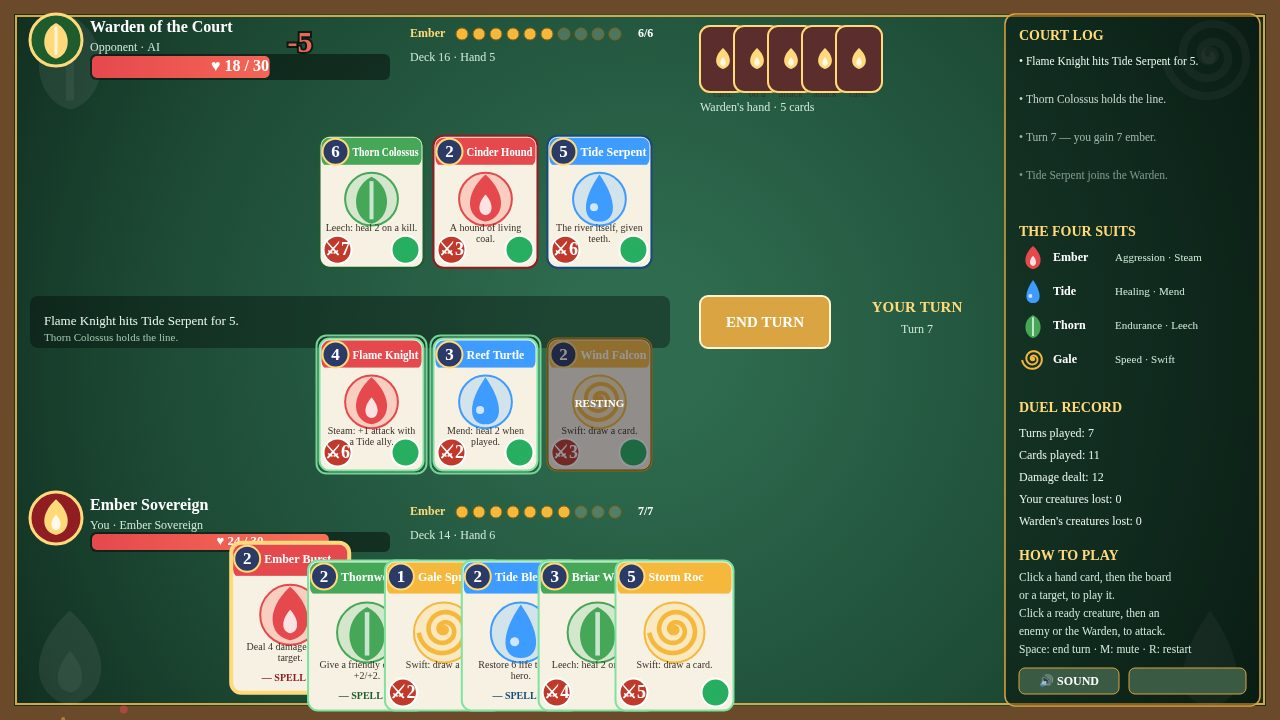
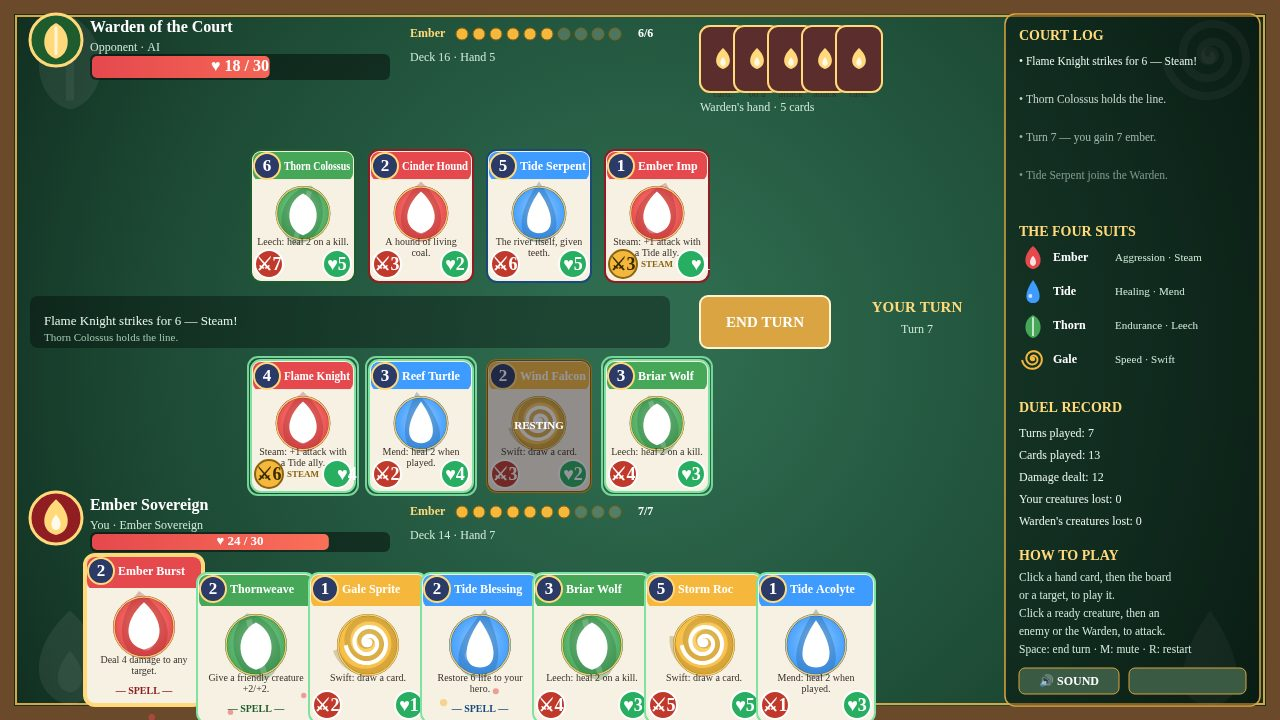
Round 2: readable late-game cover, richer card art, Steam shown live
- Hand cards sit nearly side by side so all 7 names and costs read at
  a glance; play shot is now a 4v4 turn-7 table with a 7-card hand
- Card portraits: gradient medallion, ghost + crisp glyph, gold ring
- Steam-boosted attack gems turn gold with a STEAM label, so the combo
  reads on the card (Flame Knight 6, Ember Imp 3 in the cover shot)
- Damage floaters moved off the hero bars into open table space
- Title screen shows the four suits above the title
- End screens hide the empty-board hints so nothing ghosts beside
  the VICTORY/DEFEAT panel

diff --git a/game/src/render.js b/game/src/render.js
@@ -129,31 +129,57 @@ export function drawCardFace(ctx, def, x, y, w, h, opts) {
   ctx.font = 'bold 12px Georgia, serif';
   ctx.textAlign = 'left';
   ctx.fillText(def.name, x + 33, y + 17, w - 38);
-  // Art: big suit glyph on a tinted medallion
+  // Art: a suit glyph on a glowing medallion — a large ghost glyph, turned a
+  // little per card so each portrait differs, behind the crisp white glyph.
   const cy = y + h * 0.48;
+  const med = ctx.createRadialGradient(x + w / 2, cy - h * 0.05, 2, x + w / 2, cy, h * 0.22);
+  med.addColorStop(0, suit.light);
+  med.addColorStop(1, suit.color);
   ctx.beginPath();
   ctx.arc(x + w / 2, cy, h * 0.2, 0, Math.PI * 2);
-  ctx.fillStyle = suit.light + '55';
+  ctx.fillStyle = med;
   ctx.fill();
-  ctx.lineWidth = 2; ctx.strokeStyle = suit.color; ctx.stroke();
-  drawGlyph(ctx, suit.glyph, x + w / 2, cy, h * 0.34, suit.color);
+  ctx.lineWidth = 2; ctx.strokeStyle = suit.dark; ctx.stroke();
+  ctx.save();
+  ctx.translate(x + w / 2, cy);
+  ctx.rotate(((def.id.length % 5) - 2) * 0.14);
+  ctx.globalAlpha = 0.28;
+  drawGlyph(ctx, suit.glyph, 0, 0, h * 0.44, suit.dark);
+  ctx.restore();
+  ctx.globalAlpha = 1;
+  drawGlyph(ctx, suit.glyph, x + w / 2, cy, h * 0.3, '#ffffff');
+  ctx.beginPath();
+  ctx.arc(x + w / 2, cy, h * 0.2, 0, Math.PI * 2);
+  ctx.lineWidth = 1.5; ctx.strokeStyle = 'rgba(255,217,122,0.9)'; ctx.stroke();
   // Rules text
   ctx.fillStyle = '#3a3128';
   ctx.font = '10px Georgia, serif';
   ctx.textAlign = 'center';
   wrapText(ctx, def.text, x + w / 2, y + h * 0.70, w - 12, 11);
-  // Creature stats
+  // Creature stats — a Steam-boosted attack gem turns gold and is labelled,
+  // so the combo reads on the card instead of hiding in the rules text.
   if (def.type === 'creature') {
     const atk = o.atk !== undefined ? o.atk : def.atk;
     const hp = o.hp !== undefined ? o.hp : def.hp;
+    const boosted = o.atk !== undefined && o.atk > def.atk;
     ctx.font = 'bold 18px Georgia, serif';
+    ctx.textAlign = 'center'; ctx.textBaseline = 'middle';
     ctx.beginPath(); ctx.arc(x + 18, y + h - 18, 14, 0, Math.PI * 2);
-    ctx.fillStyle = '#c0392b'; ctx.fill();
-    ctx.lineWidth = 2; ctx.strokeStyle = '#fff'; ctx.stroke();
-    ctx.fillStyle = '#fff'; ctx.fillText('⚔' + atk, x + 18, y + h - 17);
+    ctx.fillStyle = boosted ? '#f5b83d' : '#c0392b'; ctx.fill();
+    ctx.lineWidth = 2; ctx.strokeStyle = boosted ? '#8a6410' : '#fff'; ctx.stroke();
+    ctx.fillStyle = boosted ? '#3a2a00' : '#fff';
+    ctx.fillText('⚔' + atk, x + 18, y + h - 17);
+    if (boosted) {
+      ctx.font = 'bold 9px Georgia, serif';
+      ctx.textAlign = 'left';
+      ctx.fillStyle = '#8a6410';
+      ctx.fillText('STEAM', x + 36, y + h - 17);
+    }
     ctx.beginPath(); ctx.arc(x + w - 18, y + h - 18, 14, 0, Math.PI * 2);
     ctx.fillStyle = '#27ae60'; ctx.fill();
-    ctx.stroke();
+    ctx.lineWidth = 2; ctx.strokeStyle = '#fff'; ctx.stroke();
+    ctx.fillStyle = '#fff';
+    ctx.font = 'bold 18px Georgia, serif';
     ctx.fillText('♥' + hp, x + w - 18, y + h - 17);
   } else {
     ctx.font = 'bold 10px Georgia, serif';
@@ -280,8 +306,8 @@ function pumpFx(game) {
       if (fx.creature) {
         const p = cardPos(fx.creature);
         x = p.x; y = p.y - 20;
-      } else if (fx.side === 'player') { x = 300; y = 520; }
-      else { x = 300; y = 60; }
+      } else if (fx.side === 'player') { x = 880; y = 440; }
+      else { x = 880; y = 200; }
       floaters.push({ text: fx.text, x, y, color: fx.color, big: !!fx.big, life: 1 });
     } else if (fx.kind === 'shake') {
       shake = Math.max(shake, fx.power);
@@ -420,8 +446,12 @@ function drawBoard(ctx, game, ui, time) {
   ctx.fillStyle = '#cfe8d8';
   ctx.font = '12px Georgia, serif';
   ctx.textAlign = 'center';
-  if (player.board.length === 0) ctx.fillText('Your board is empty — play a creature.', 480, 430);
-  if (ai.board.length === 0) ctx.fillText('The Warden has no creatures — strike the face!', 480, 220);
+  // Empty-board hints only during play: on the win/loss screens the dimmed
+  // table shows through the end panel, and the hints would ghost beside it.
+  if (game.screen === 'play') {
+    if (player.board.length === 0) ctx.fillText('Your board is empty — play a creature.', 480, 430);
+    if (ai.board.length === 0) ctx.fillText('The Warden has no creatures — strike the face!', 480, 220);
+  }
 
   // --- player hero row (life bar kept clear of the raised hand cards) ---
   layout.playerHero = drawHero(ctx, player, 30, 492, true, game);
@@ -430,7 +460,9 @@ function drawBoard(ctx, game, ui, time) {
   layout.hand = [];
   const hand = player.hand;
   const cw = 118, ch = 150;
-  const overlap = hand.length > 1 ? Math.min(78, (900 - cw) / (hand.length - 1)) : 0;
+  // Cards sit nearly side by side (112 px of each 118 px card shows), so
+  // every name and cost reads at a glance instead of hiding under its neighbour.
+  const overlap = hand.length > 1 ? Math.min(112, (900 - cw) / (hand.length - 1)) : 0;
   const totalW = cw + overlap * (hand.length - 1);
   const startX = 30 + (900 - totalW) / 2;
   hand.forEach((card, i) => {
@@ -614,6 +646,16 @@ function drawTitle(ctx, game, time) {
   });
   ctx.fillStyle = 'rgba(10,20,14,0.55)';
   ctx.fillRect(0, 0, W, H);
+  // The four suits above the title, so the suits read at a glance.
+  ['ember', 'tide', 'thorn', 'gale'].forEach((k, i) => {
+    const su = SUITS[k];
+    const gx = 490 + i * 100;
+    drawGlyph(ctx, su.glyph, gx, 108, 40, su.color);
+    ctx.fillStyle = '#cfe8d8';
+    ctx.font = 'bold 12px Georgia, serif';
+    ctx.textAlign = 'center'; ctx.textBaseline = 'middle';
+    ctx.fillText(su.name, gx, 138);
+  });
   ctx.textAlign = 'center'; ctx.textBaseline = 'middle';
   ctx.fillStyle = '#ffd97a';
   ctx.font = 'bold 92px Georgia, serif';

diff --git a/game/src/main.js b/game/src/main.js
@@ -195,17 +195,20 @@ function stageShot(kind) {
   game = newGame(rng);
   game.screen = 'play';
   if (kind === 'play') {
-    // A rich mid-game: turn 7, both boards full of creatures, big hands,
-    // life totals that tell the story, one card raised as if just drawn.
+    // A rich late-game table: turn 7, both boards four creatures deep, a
+    // full seven-card hand, life totals that tell the story, one card raised
+    // as if just drawn. The Flame Knight shows Steam live: a Tide ally is
+    // up, so its attack gem is gold at 6 with a STEAM label.
     game.turn = 7;
     game.player.life = 24; game.ai.life = 18;
     game.player.ember = 7; game.player.emberMax = 7;
     game.ai.ember = 6; game.ai.emberMax = 6;
-    game.player.board = [makeCreature('flame-knight'), makeCreature('reef-turtle'), makeCreature('wind-falcon')];
+    game.player.board = [makeCreature('flame-knight'), makeCreature('reef-turtle'), makeCreature('wind-falcon'), makeCreature('briar-wolf')];
     game.player.board[0].canAttack = true; game.player.board[0].justPlayed = false;
     game.player.board[1].canAttack = true; game.player.board[1].justPlayed = false;
     game.player.board[2].canAttack = false;
-    game.ai.board = [makeCreature('thorn-colossus'), makeCreature('cinder-hound'), makeCreature('tide-serpent')];
+    game.player.board[3].canAttack = true; game.player.board[3].justPlayed = false;
+    game.ai.board = [makeCreature('thorn-colossus'), makeCreature('cinder-hound'), makeCreature('tide-serpent'), makeCreature('ember-imp')];
     game.ai.board.forEach((c) => { c.canAttack = true; c.justPlayed = false; });
     game.player.board[1].hp = 4; // battle-worn
     game.ai.board[0].hp = 5;
@@ -216,16 +219,17 @@ function stageShot(kind) {
       { uid: 9004, defId: 'tide-blessing', def: { id: 'tide-blessing', name: 'Tide Blessing', suit: 'tide', type: 'spell', cost: 2, art: 'drop', text: 'Restore 6 life to your hero.' } },
       { uid: 9005, defId: 'briar-wolf', def: { id: 'briar-wolf', name: 'Briar Wolf', suit: 'thorn', type: 'creature', cost: 3, atk: 4, hp: 3, art: 'leaf', text: 'Leech: heal 2 on a kill.' } },
       { uid: 9006, defId: 'storm-roc', def: { id: 'storm-roc', name: 'Storm Roc', suit: 'gale', type: 'creature', cost: 5, atk: 5, hp: 5, art: 'swirl', text: 'Swift: draw a card.' } },
+      { uid: 9007, defId: 'tide-acolyte', def: { id: 'tide-acolyte', name: 'Tide Acolyte', suit: 'tide', type: 'creature', cost: 1, atk: 1, hp: 3, art: 'drop', text: 'Mend: heal 2 when played.' } },
     ];
     game.player.deck = new Array(14).fill('ember-imp');
     game.ai.deck = new Array(16).fill('cinder-hound');
     game.log = [
-      'Flame Knight hits Tide Serpent for 5.',
+      'Flame Knight strikes for 6 — Steam!',
       'Thorn Colossus holds the line.',
       'Turn 7 — you gain 7 ember.',
       'Tide Serpent joins the Warden.',
     ];
-    game.stats = { turns: 7, cardsPlayed: 11, damageDealt: 12 };
+    game.stats = { turns: 7, cardsPlayed: 13, damageDealt: 12 };
     game.fx.push({ kind: 'float', text: '-5', side: 'ai', color: '#ff6b5e', big: true });
     ui.selectedCard = game.player.hand[0];
     return;
@@ -236,6 +240,8 @@ function stageShot(kind) {
     game.ai.ember = 2; game.ai.emberMax = 9;
     game.stats = { turns: 9, cardsPlayed: 15, damageDealt: 30 };
     game.screen = 'win'; game.phase = 'over'; game.winner = 'player';
+    // Boards stay empty: the end panel covers the middle of the table, so
+    // creatures staged there would only peek out around its edges.
     game.log = ['Ember Burst finishes the Warden for 4.', 'The Cinder Warden falls. You win the Court!'];
     return;
   }
@@ -245,6 +251,8 @@ function stageShot(kind) {
     game.ai.ember = 4; game.ai.emberMax = 8;
     game.stats = { turns: 8, cardsPlayed: 12, damageDealt: 16 };
     game.screen = 'loss'; game.phase = 'over'; game.winner = 'ai';
+    // Boards stay empty: the end panel covers the middle of the table, so
+    // creatures staged there would only peek out around its edges.
     game.log = ['Thorn Colossus strikes you for 7.', 'Your ember gutters out. The Warden wins.'];
   }
 }
